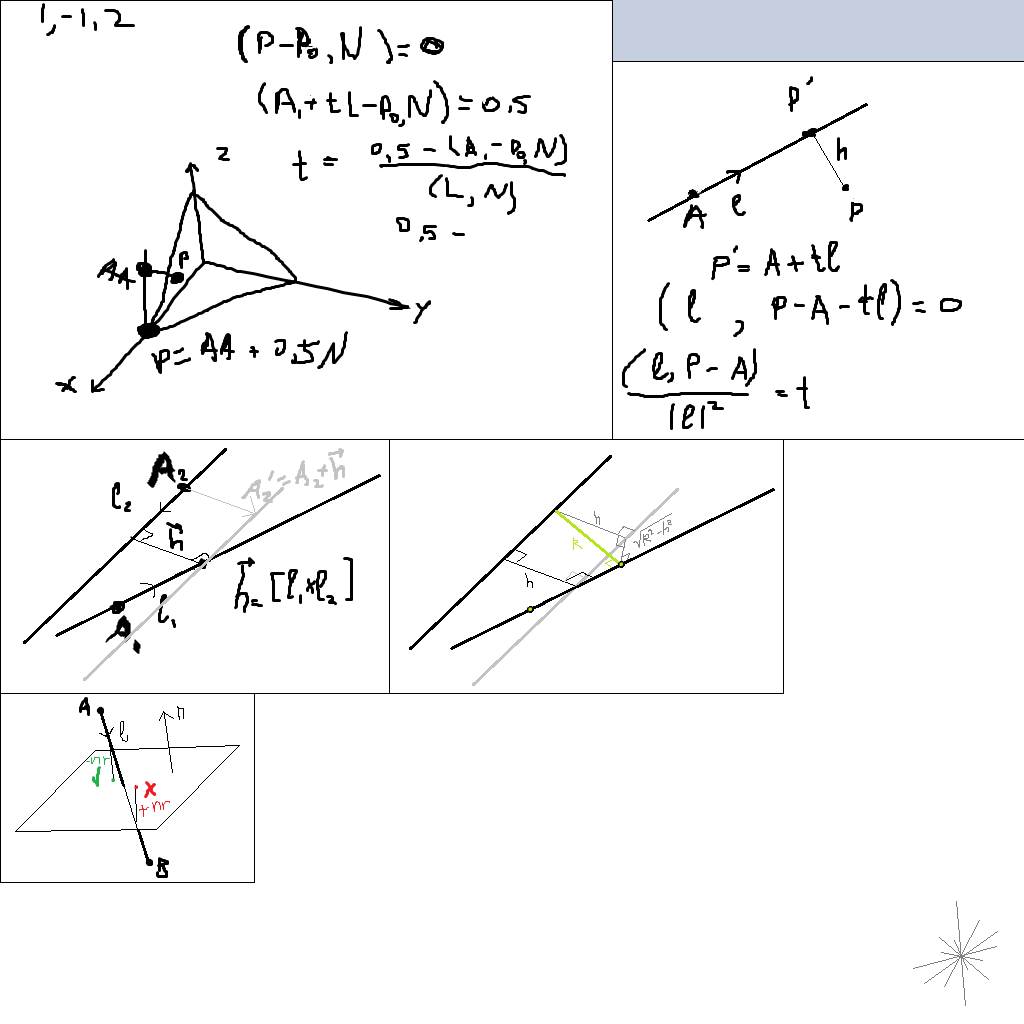
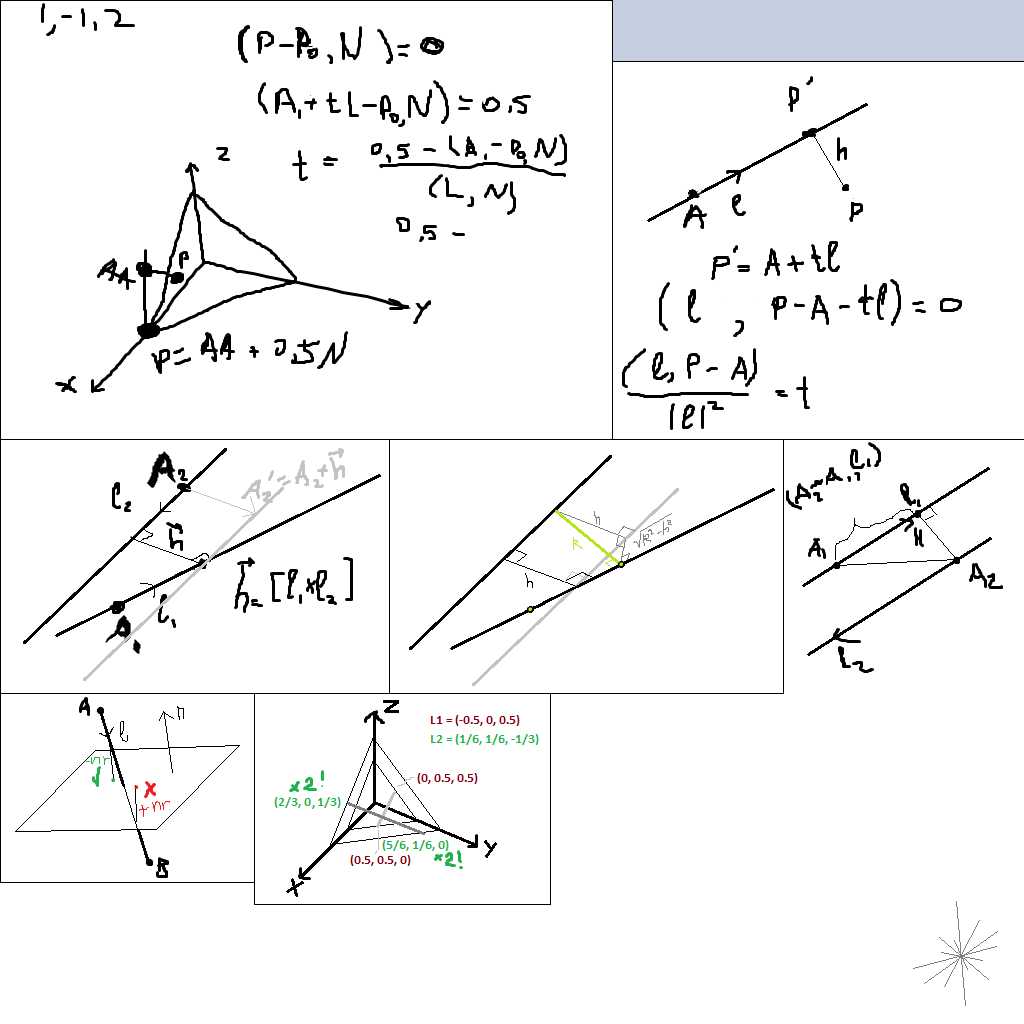
Implemented distance_between_two_lines.

diff --git a/Tester/helpers_unittest.cpp b/Tester/helpers_unittest.cpp
@@ -135,3 +135,77 @@ TEST(DistancePointAndSegmentTest, BlackTest)
 
     EXPECT_THROW( distance_between_point_and_segment( A, A, A ), DegeneratedSegmentError );
 }
+
+// Distance between two lines tests
+
+TEST(DistanceTwoLinesTest, Crossing)
+{
+    Point A1(0.2, 0.2, 0.2);
+    Vector L1(0.99, 0.99, 0.99); // simplex normal
+
+    Point A2(0, 0, 1);
+    Vector L2(0.5, 0.5, -1); // on simplex
+
+    EXPECT_TRUE( equal( 0.0, distance_between_two_lines( A1, L1, A2, L2 ) ) );
+}
+
+TEST(DistanceTwoLinesTest, PerpendicularTrivial)
+{
+    Point A1(0.2, 0, 0);
+    Vector L1(0.99, 0, 0); // x axis
+
+    Point A2(0, 2.3, 2.3);
+    Vector L2(0, -5, 0); // y axis (shifted 2.3 up)
+
+    EXPECT_EQ( 2.3, distance_between_two_lines( A1, L1, A2, L2 ) );
+}
+
+TEST(DistanceTwoLinesTest, NonParallelArbitrary)
+{
+    Point A1(0.5, 0.5, 0);
+    Vector L1(-0.5, 0, 0.5); // on little simplex (1x1x1)
+
+    Point A2(5.0/3, 1.0/3, 0);
+    Vector L2(1.0/6, 1.0/6, -1.0/3); // on big simplex (2x2x2)
+
+    EXPECT_DOUBLE_EQ( 1.0/sqrt(3.0),  distance_between_two_lines( A1, L1, A2, L2 ) );
+}
+
+TEST(DistanceTwoLinesTest, ParallelTrivial)
+{
+    Point A1(0.2, 0, 0);
+    Vector L1(0.99, 0, 0); // x axis
+
+    Point A2(2.3, 0, 2.3);
+    Vector L2(-5, 0, 0); // x axis (shifted 2.3 up)
+
+    EXPECT_DOUBLE_EQ( 2.3, distance_between_two_lines( A1, L1, A2, L2 ) );
+}
+
+TEST(DistanceTwoLinesTest, ParallelArbitrary)
+{
+    Point A1(0.2, 0, 0);
+    Vector L1(1, 1, 1);
+
+    Vector N(1, 1, -2); // perpendicular to L1
+
+    Vector L2 = L1;
+    Point A2 = A1 + 5*N.normalized() + 8*L2;
+
+    EXPECT_DOUBLE_EQ( 5, distance_between_two_lines( A1, L1, A2, L2 ) );
+}
+
+TEST(DistanceTwoLinesTest, BlackTest)
+{
+    Point A1(0, 0, 0);
+    Vector L1(1, 1, 1);
+
+    Point A2(0, 0, 1);
+    Vector L2(0.5, 0.5, -1);
+
+    Vector ZERO(0, 0, 0);
+
+    EXPECT_THROW( distance_between_two_lines( A1, ZERO, A2, L2 ), InvalidLineVectorError );
+    EXPECT_THROW( distance_between_two_lines( A1, L1, A2, ZERO ), InvalidLineVectorError );
+    EXPECT_THROW( distance_between_two_lines( ZERO, ZERO, ZERO, ZERO ), InvalidLineVectorError );
+}

diff --git a/Collisions/collision.cpp b/Collisions/collision.cpp
@@ -37,6 +37,29 @@ namespace Collisions
         return dst;
     }
 
+    double distance_between_two_lines(const Point &line_point1, const Vector &line_vector1,
+                                      const Point &line_point2, const Vector &line_vector2)
+    {
+        check_nonzero_vector( line_vector1, InvalidLineVectorError() );
+        check_nonzero_vector( line_vector2, InvalidLineVectorError() );
+        Vector h = line_vector1 & line_vector2; // perpendicular
+        double dst;
+        if( h.is_zero() )
+        {
+            // lines are parallel
+            Vector L1 = line_vector1.normalized();
+            Point H = line_point1 + ((line_point2 - line_point1)*L1)*L1; // A1 plus proection of A2-A1 onto L1
+            dst = distance( H, line_point2 );
+        }
+        else
+        {
+            // lines are not parallel
+            h.normalize();
+            dst = abs( (line_point2 - line_point1)*h ); // legth of projection of 'vector from one line to another' to the perpendicular
+        }
+        return dst;
+    }
+
     // -------------------- C o l l i s i o n   f i n d e r s -----------------------------
     // All functions return true, if there is a collision, false - if none;
     // and write collision point into `collison_point', if there is any.

diff --git a/Collisions/point.h b/Collisions/point.h
@@ -92,6 +92,11 @@ namespace Collisions
         {
             return x*another.x + y*another.y + z*another.z;
         }
+        // vector multiplication
+        Point operator&(const Point &another) const
+        {
+            return Point( y*another.z - z*another.y, z*another.x - x*another.z, x*another.y - y*another.x );
+        }
         
         // methods
         double sqared_norm() const
@@ -114,7 +119,11 @@ namespace Collisions
         {
             Point result = *this;
             return result.normalize();
-        }            
+        }
+        bool is_zero() const
+        {
+            return equal(x, 0) && equal(y, 0) && equal(z, 0);
+        }
     };
 
     typedef Point Vector; // define an alias
@@ -138,8 +147,7 @@ namespace Collisions
     // error checking functions
     template <class ErrType> inline void check_nonzero_vector( const Vector &vector, const ErrType &error )
     {
-        static const Vector ZERO( 0, 0, 0 );
-        check( vector != ZERO, error );
+        check( !vector.is_zero(), error );
     }
     inline void check_segment( const Point &segment_start, const Point &segment_end )
     {

diff --git a/Tester/collisions_unittest.cpp b/Tester/collisions_unittest.cpp
@@ -33,18 +33,6 @@ TEST(LineAndPlaneTest, PerpendicularTrivial)
     EXPECT_EQ( A1, result );
 }
 
-TEST(LineAndPlaneTest, BlackTest)
-{
-    Point A(1, 1, 1);
-    Vector L(0, 0, -2);
-
-    Vector ZERO(0, 0, 0);
-    Point result;
-
-    EXPECT_THROW( line_and_plane_collision( A, ZERO, A, L, result ), InvalidLineVectorError );
-    EXPECT_THROW( line_and_plane_collision( A, L, A, ZERO, result ), InvalidNormalError );
-}
-
 TEST(LineAndPlaneTest, PerpendicularSimple)
 {
     Point A(0, -0.5, 0);
@@ -73,6 +61,18 @@ TEST(LineAndPlaneTest, Arbitrary)
 
     EXPECT_TRUE( line_and_plane_collision( A, L, P0, N, result ) );
     EXPECT_EQ( A1, result );
+}
+
+TEST(LineAndPlaneTest, BlackTest)
+{
+    Point A(1, 1, 1);
+    Vector L(0, 0, -2);
+
+    Vector ZERO(0, 0, 0);
+    Point result;
+
+    EXPECT_THROW( line_and_plane_collision( A, ZERO, A, L, result ), InvalidLineVectorError );
+    EXPECT_THROW( line_and_plane_collision( A, L, A, ZERO, result ), InvalidNormalError );
 }
 
 // Segment and plane tests

diff --git a/Tester/point_unittest.cpp b/Tester/point_unittest.cpp
@@ -191,3 +191,32 @@ TEST(PointTest, Distance)
     Point p2(4, -2, -3);
     EXPECT_DOUBLE_EQ( 5, distance(p1, p2) );
 }
+
+TEST(PointTest, VectorMultiply)
+{
+    Vector ex(1, 0, 0);
+    Vector ey(0, 1, 0);
+    Vector ez(0, 0, 1);
+    Vector ZERO(0, 0, 0);
+    
+    Vector v1(1, 0, -1);
+    Vector v2(0, 1, -1);
+    Vector v3(1, 1, 1);
+    v3.normalize();
+    v3 *= v1.norm()*v2.norm()*sin( acos( v1.normalized()*v2.normalized()) ); // area of parallelogram
+
+    EXPECT_EQ( ez, ex & ey );
+    EXPECT_EQ( -ez, ey & ex );
+    EXPECT_EQ( ZERO, ex & ex );
+
+    EXPECT_EQ( v3, v1 & v2 );
+}
+
+TEST(PointTest, IsZero)
+{
+    Point ZERO(0, 0, 0);
+    Point NON_ZERO(0, 0.001, 0);
+
+    EXPECT_TRUE( ZERO.is_zero() );
+    EXPECT_FALSE( NON_ZERO.is_zero() );
+}

diff --git a/Collisions/collisions.h b/Collisions/collisions.h
@@ -15,6 +15,9 @@ namespace Collisions
 
     double distance_between_point_and_segment(const Point &point, const Point &segment_start, const Point &segment_end);
 
+    double distance_between_two_lines(const Point &line_point1, const Vector &line_vector1,
+                                      const Point &line_point2, const Vector &line_vector2);
+
     // -------------------- C o l l i s i o n   f i n d e r s -----------------------------
     // All functions return true, if there is a collision, false - if none;
     // and write collision point into `collison_point', if there is any.
